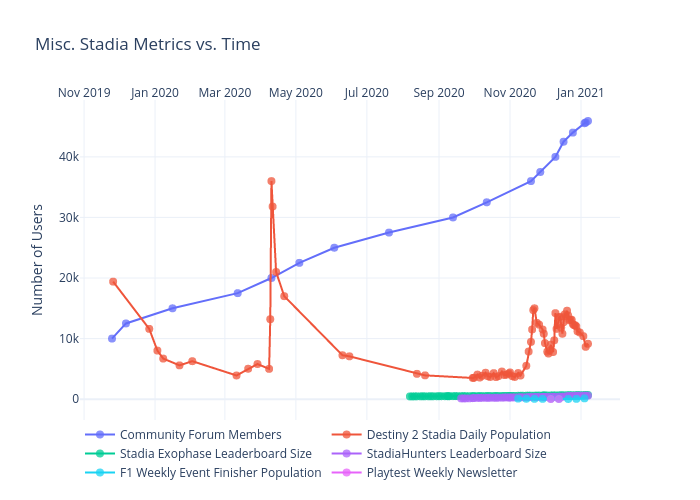
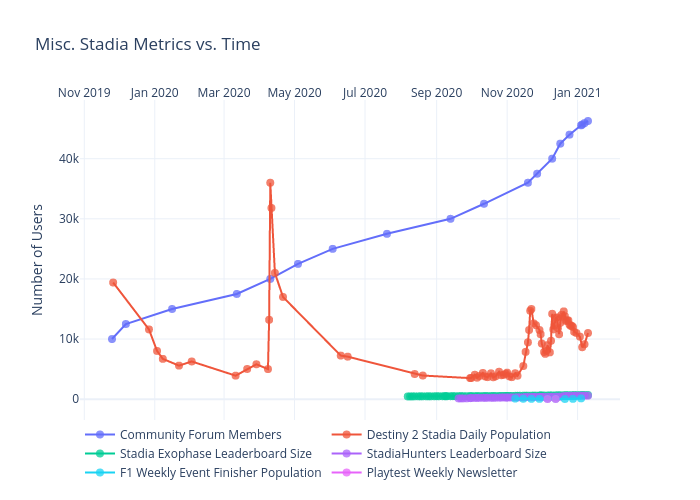
Add files via upload

diff --git a/misc/figure.js b/misc/figure.js
@@ -267,7 +267,8 @@ var figure = {
                 "",
                 "45550",
                 "45670",
-                "45919"
+                "45919",
+                "46270"
             ],
             "marker": {
                 "size": 8,
@@ -544,7 +545,8 @@ var figure = {
                 "10400",
                 "",
                 "8640",
-                "9140"
+                "9140",
+                "11000"
             ],
             "marker": {
                 "size": 8,
@@ -821,6 +823,7 @@ var figure = {
                 "681",
                 "",
                 "688",
+                "694",
                 "694"
             ],
             "marker": {
@@ -1098,7 +1101,8 @@ var figure = {
                 "573",
                 "",
                 "573",
-                "578"
+                "578",
+                "580"
             ],
             "marker": {
                 "size": 8,
@@ -1647,8 +1651,8 @@ var figure = {
             "side": "top",
             "type": "date",
             "range": [
-                "2019-10-30 17:04:54.7487",
-                "2021-02-01 06:55:05.2513"
+                "2019-10-30 12:37:48.5488",
+                "2021-02-04 11:22:11.4512"
             ],
             "title": {
                 "text": ""
@@ -1658,8 +1662,8 @@ var figure = {
         "yaxis": {
             "type": "linear",
             "range": [
-                -3256.663115462137,
-                49202.663115462135
+                -3281.7778577598624,
+                49578.777857759866
             ],
             "title": {
                 "text": "Number of Users"
